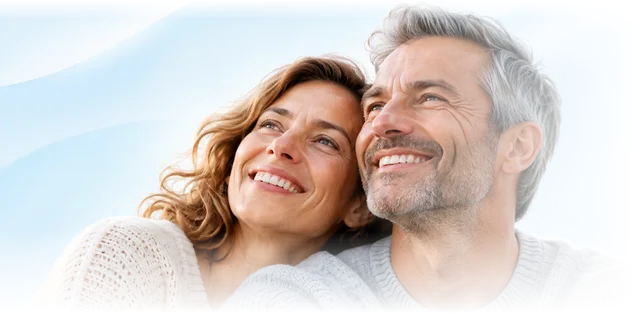
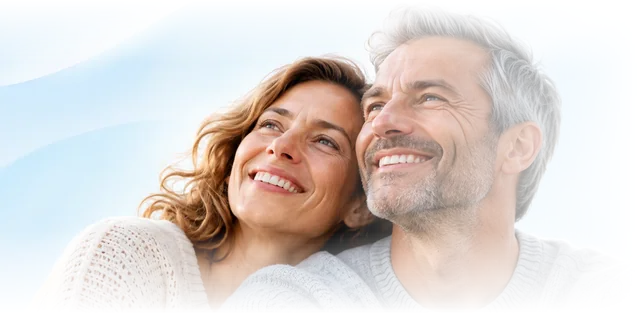
En-tête : le ciel de la photo continue sur toute la largeur et s'estompe vers le titre
Fabrice, 12/11/2026. Bande de ciel en haut de la page, de la couleur du
ciel de la photo, qui s'estompe vers le titre (à gauche) et vers le bas ;
bords haut et gauche de la photo plus fondus. Thème sombre : bande bleu
nuit. Vérifié sur PC, grand écran, téléphone et thème sombre.

Claude-Session: https://claude.ai/code/session_01Q3fRAujCrMRHgYzCmcb6x4

Changed region(s): [[0.5312, 0.258, 0.7188, 0.8025], [0.5938, 0.0287, 0.8125, 0.2006], [0.2812, 0.0287, 0.375, 0.086]]

diff --git a/maquette/template.html b/maquette/template.html
@@ -400,6 +400,14 @@ ul.n{margin:.6rem 0 0;padding-left:1.2rem;display:flex;flex-direction:column;gap
 
 /* ---------- Tchat avec Antony (bulle en bas à droite, PC et téléphone) ---------- */
 :root{--tchat-fond:#eef4f8}
+/* Ciel de l'en-tête (Fabrice, 12/11/2026 : « continu le ciel sur toute la partie pour harmoniser en estompant vers le titre ») :
+   bande de ciel en haut de la page, de la couleur du ciel de la photo, qui s'estompe vers le titre (à gauche) et vers le bas. */
+:root{--ciel:#d6ecfa;--ciel-clair:#eef7fd}
+@media (prefers-color-scheme: dark){:root:not([data-theme="light"]){--ciel:#15384a;--ciel-clair:#102833}}
+:root[data-theme="dark"]{--ciel:#15384a;--ciel-clair:#102833}
+body{background:linear-gradient(to bottom,transparent 0,transparent 45%,var(--bg) 100%) top / 100% var(--ciel-h,230px) no-repeat,
+  linear-gradient(to right,var(--bg) 0,var(--bg) 12%,var(--ciel-clair) 38%,var(--ciel) 70%,var(--ciel) 100%) top / 100% var(--ciel-h,230px) no-repeat,var(--bg)}
+@media (max-width:699px){body{--ciel-h:150px}}
 @media (prefers-color-scheme: dark){:root:not([data-theme="light"]){--tchat-fond:#0b1a22}}
 :root[data-theme="dark"]{--tchat-fond:#0b1a22}
 .tchat-voile{position:fixed;inset:0;background:rgba(5,20,30,.5);display:none}

diff --git a/docs/carnet/ECHANGES.md b/docs/carnet/ECHANGES.md
@@ -545,6 +545,10 @@ mieux référencer le site »
   Fabrice) : dans chaque article, 2 à 4 liens vers d'autres articles du guide, posés sur la première expression
   pertinente du texte (contrat responsable, 100 % Santé, OPTAM, secteur 2, ticket modérateur, base de remboursement…),
   jamais dans un titre, la FAQ ou les sources. Test : chaque lien mène à un article qui existe, au moins 2 par article.
+- **Ciel de l'en-tête (Fabrice, 12/11, ses mots, avec une capture)** : « continu le ciel sur toute la partie pour
+  harmoniser en estempant vers le titre ». Fait (demande de fusion « ciel-entete ») : bande de ciel en haut de la page, de
+  la couleur du ciel de la photo, qui s'estompe vers le titre (à gauche) et vers le bas ; bords haut et gauche de la photo
+  plus fondus. Thème sombre : bande bleu nuit.
 - **Photo du couple (Fabrice, 12/11, ses mots, avec la photo et une maquette)** : « tu vas ajouter cette photo au site sans
   changer le site tu intégres que la partie du couple avec l'oiseu ». Fait (demande de fusion « photo-couple ») : photo
   recadrée (têtes et épaules), bords gauche et bas fondus en transparence, en haut à droite de l'en-tête sous l'oiseau déjà
